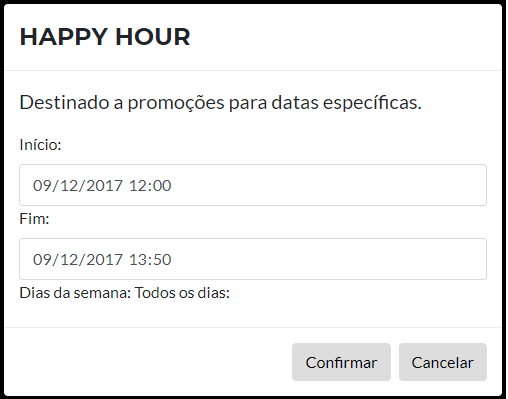
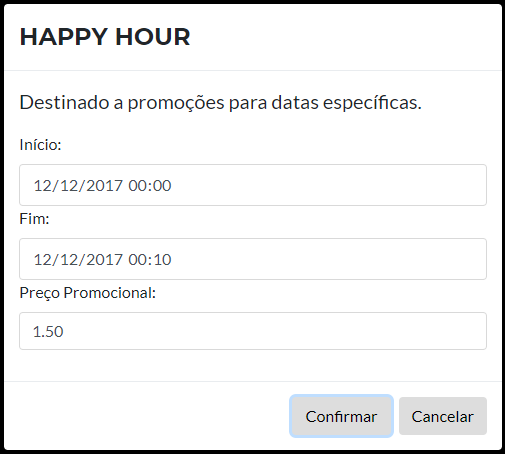
melhoria da funcionalidade opção happy hour: só substitui o preço e melhoria na monografia

diff --git a/Mastermenu/src/main/resources/public/js/controllers/controllers.js b/Mastermenu/src/main/resources/public/js/controllers/controllers.js
@@ -26,13 +26,11 @@ mastermenuControllers.controller('BebidasCtrl', [
 		$scope.showMenu = function() {
 			var date = new Date();
 			var t = date.getTime();
-			console.log("t: " + t);
 			for (var i = 0; i < $scope.produtos.length; i++) { 
-				if(t > $scope.produtos[i].happyEnd) {
-					$scope.produtos[i].menu = false;
-					$http.put("mastermenu/v1/product/"+$scope.produtos[i].id, $scope.produtos[i]).success(
-							function(data) {});
-					delete $scope.produtos[i];
+				if(t > $scope.produtos[i].happyInit && t < $scope.produtos[i].happyEnd) {
+					$scope.produtos[i].happy = true;
+				} else {
+					$scope.produtos[i].happy = false;
 				}
   			}
 		}
@@ -331,7 +329,6 @@ mastermenuControllers.controller('ProductCtrl', [
   		
   		$scope.addProduct = function(product) {
   			product.menu = $scope.isMenu;
-  			console.log("menu: " + product.menu);
   			product.house = new Object();
   			product.house.id = $scope.idHouse;
   			product.compositions = $scope.selected;

diff --git a/Mastermenu/src/main/resources/public/view/registration/product.html b/Mastermenu/src/main/resources/public/view/registration/product.html
@@ -176,8 +176,13 @@
 		<input id="happyHour" type="datetime-local"
 			 ng-model="productHappyHour.happyEnd" class="form-control" value="" required/>
 			 
-		<label for="happyHour">Dias da semana:</label>
-		<label for="happyHour">Todos os dias:</label>
+		<div class="form-group">
+			<label for="priceHappyProduct">Preço Promocional:</label>
+			<input
+				id="priceHappyProduct" type="number" ng-model="productHappyHour.priceHappy"
+				name="pPrice" required="true" placeholder="*" class="form-control" />
+		</div>
+					
       </div>
       <div class="modal-footer">
         <button type="button" class="btn btn-default" data-dismiss="modal" ng-click="checkHappyHour()">Confirmar</button>

diff --git a/Mastermenu/src/main/resources/public/view/client/bebidas.html b/Mastermenu/src/main/resources/public/view/client/bebidas.html
@@ -41,7 +41,12 @@
 		</tr>
 		<tr ng-repeat="produto in produtos">
 			<td>{{produto.name}}</td>
-			<td>{{produto.price}}</td>
+			<td>
+				<div ng-show="produto.happy">
+					{{produto.priceHappy}} <span style="color:red;">**PROMOÇÃO**</span></div>
+				<div ng-show="!produto.happy">
+					{{produto.price}}</div>	
+					</td>
 			<td><button class="btn btn-info" ng-click="adicionar(produto)">Add</button></td>
 		</tr>
 	</table>

diff --git a/Mastermenu/src/main/java/br/com/mastermenu/product/model/Product.java b/Mastermenu/src/main/java/br/com/mastermenu/product/model/Product.java
@@ -52,11 +52,24 @@ public class Product {
 	
 	private Long happyWeek;
 	
+	private double priceHappy;
+	
 	private boolean menu = true;
 	
 	public boolean isMenu() {
 		return menu;
 	}
+	
+	
+	public double getPriceHappy() {
+		return priceHappy;
+	}
+
+
+	public void setPriceHappy(double priceHappy) {
+		this.priceHappy = priceHappy;
+	}
+
 
 	public void setMenu(boolean menu) {
 		this.menu = menu;
